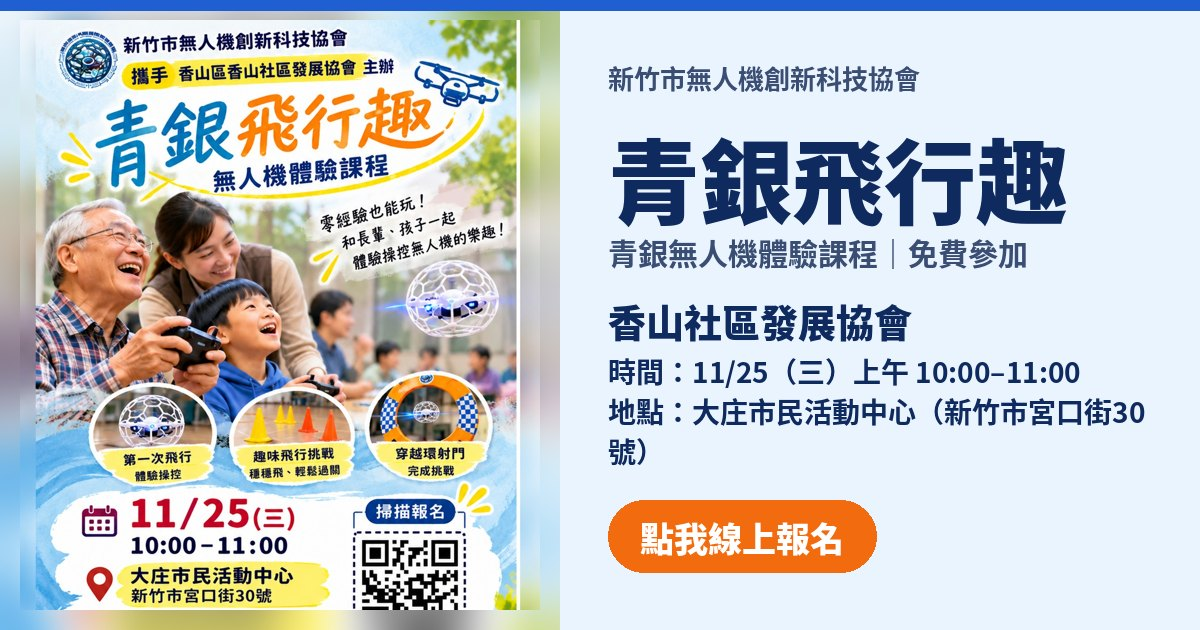
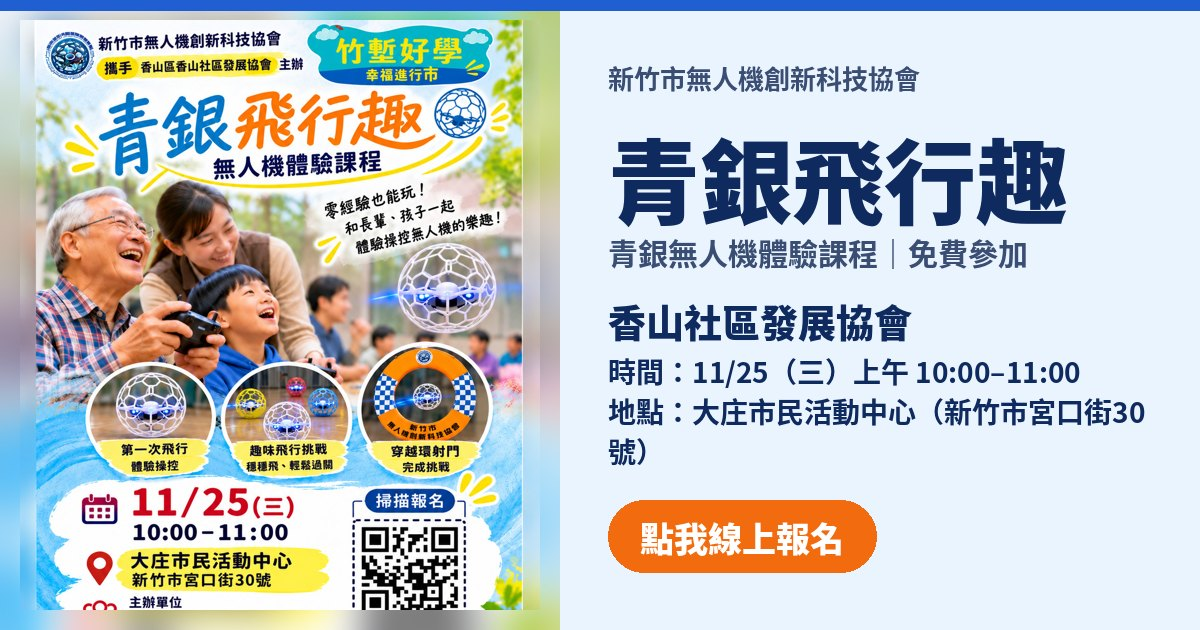
大庄 DM 更新（足球無人機版）：海報 v=6、重產分享縮圖
Claude-Session: https://claude.ai/code/session_01THEmyzqVn5RNUAw498v5xU

diff --git a/index.html b/index.html
@@ -26,7 +26,7 @@
 // 有代碼 → 一打開就先下載海報，不等其他東西
 (function(){try{var c=(new URLSearchParams(location.search).get("c")||"").trim().toLowerCase();
 if(!c){location.replace("admin.html");return;}
-if(c){var l=document.createElement("link");l.rel="preload";l.as="image";l.href="poster-"+encodeURIComponent(c)+".jpg?v=5";document.head.appendChild(l);}}catch(e){}})();
+if(c){var l=document.createElement("link");l.rel="preload";l.as="image";l.href="poster-"+encodeURIComponent(c)+".jpg?v=6";document.head.appendChild(l);}}catch(e){}})();
 </script>
 <style>
 :root{
@@ -307,7 +307,7 @@ footer a{font-family:var(--f-round);font-weight:400;font-size:24px;color:var(--r
     setTitle(c);
     document.title = (evTitle(c).replace("|", "") || "活動") + "報名｜" + c.name;
     // 海報：poster-社區代碼.jpg，有就整張顯示在最上面
-    const src = "poster-" + encodeURIComponent(c.code) + ".jpg?v=5"; // 換海報時把 v 加 1（跟上面 preload 一起改）
+    const src = "poster-" + encodeURIComponent(c.code) + ".jpg?v=6"; // 換海報時把 v 加 1（跟上面 preload 一起改）
     const img = $("#poster");
     if (img.dataset.src !== src) {
       img.dataset.src = src;
